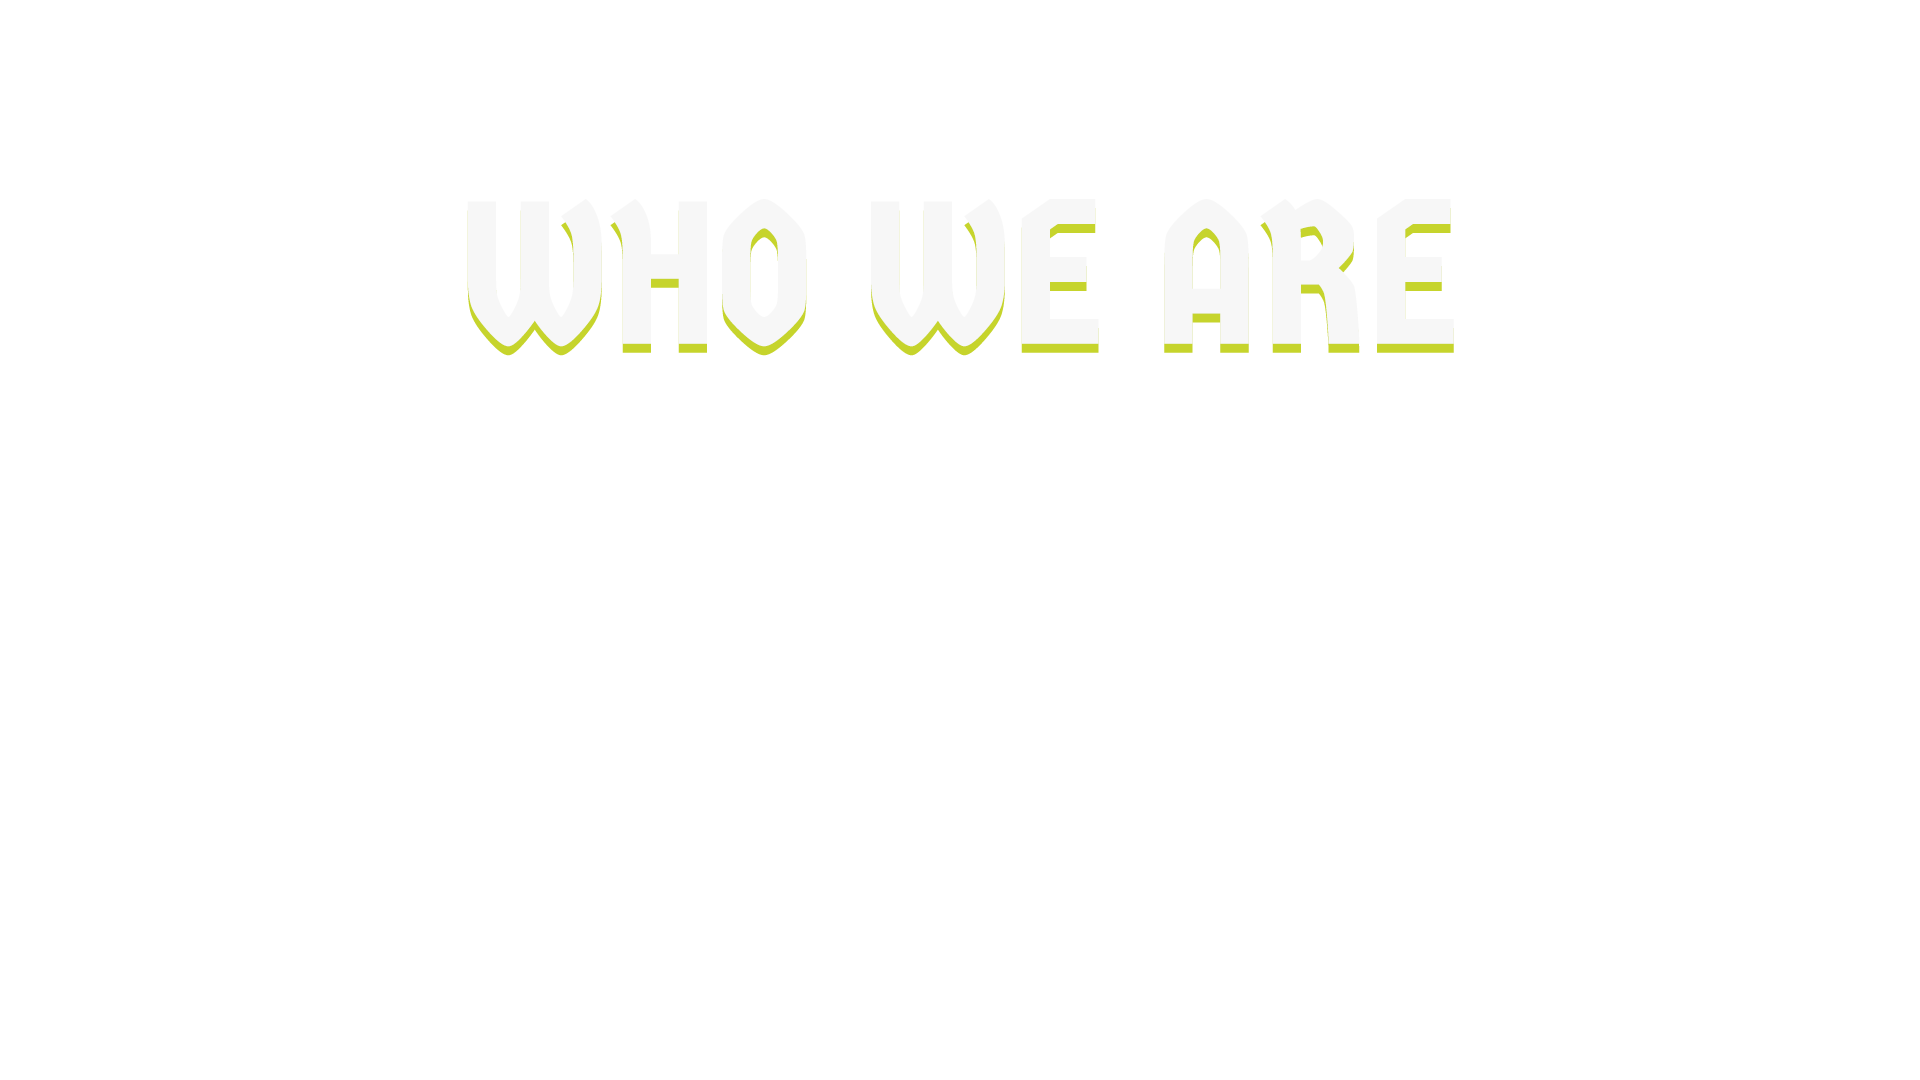
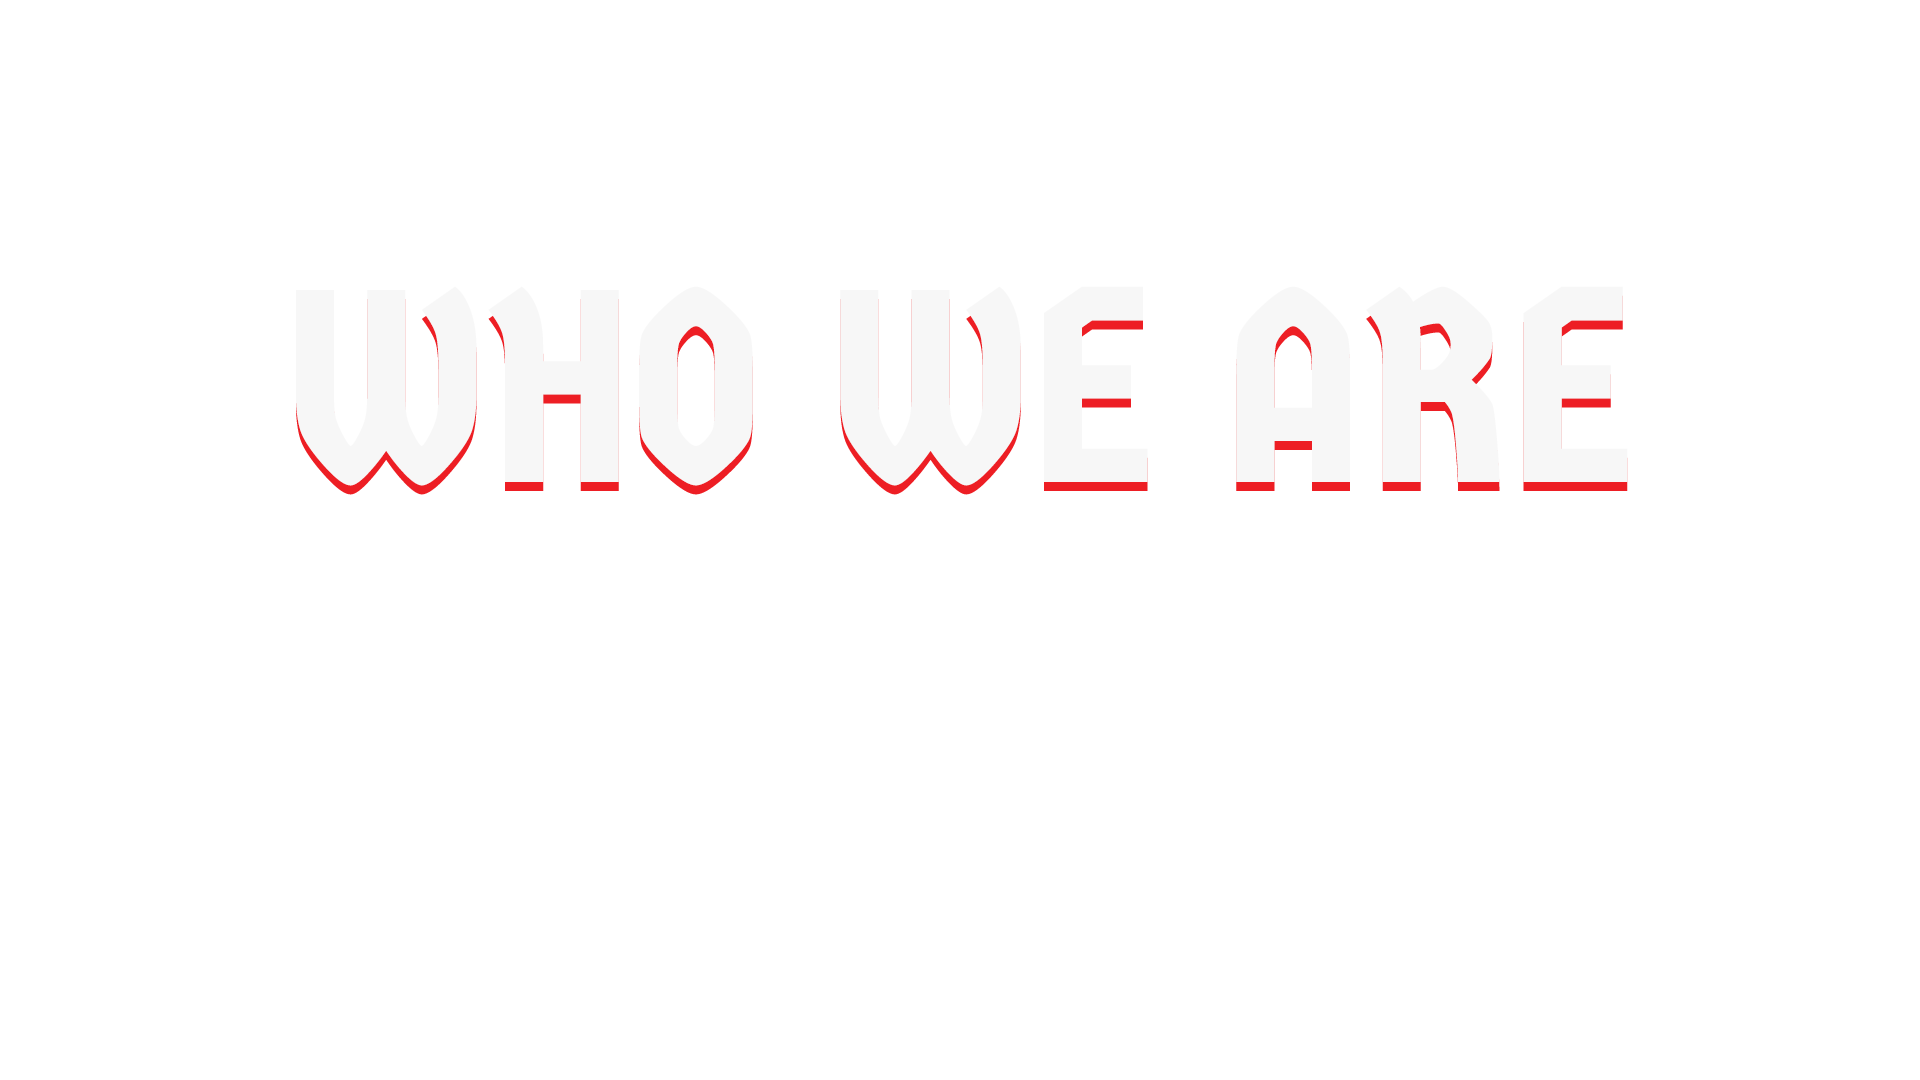
Regulps supers and copies

diff --git a/gulp/assets/1920X1080/.cache/css/main_cache.css b/gulp/assets/1920X1080/.cache/css/main_cache.css
@@ -1,25 +1,9 @@
 
 
-#header_the_collective_clicked {
-	left:1254px;
-	top:79px;
-	width:293px;
-	height:44px;
-	background-image:url(../img/header_the_collective_clicked.png);
-}
-
-#header_the_team_clicked {
-	left:1059px;
-	top:79px;
-	width:186px;
-	height:44px;
-	background-image:url(../img/header_the_team_clicked.png);
-}
-
-#header_the_work_clicked {
-	left:857px;
-	top:79px;
-	width:192px;
-	height:44px;
-	background-image:url(../img/header_the_work_clicked.png);
+#team_copy {
+	left:145px;
+	top:593px;
+	width:1634px;
+	height:199px;
+	background-image:url(../img/team_copy.png);
 }

diff --git a/gulp/src/1920x1080/css/main.css b/gulp/src/1920x1080/css/main.css
@@ -68,16 +68,16 @@ body { margin:0px 0px; padding:0px; }
 }
 
 #team_super {
-	left:467px;
-	top:199px;
-	width:988px;
-	height:158px;
+	left:296px;
+	top:286px;
+	width:1333px;
+	height:210px;
 	background-image:url(../img/team_super.png);
 }
 
 #team_copy {
 	left:145px;
-	top:491px;
+	top:593px;
 	width:1634px;
 	height:199px;
 	background-image:url(../img/team_copy.png);
@@ -130,7 +130,7 @@ body { margin:0px 0px; padding:0px; }
 	left:106px;
 	top:337px;
 	width:1710px;
-	height:125px;
+	height:131px;
 	background-image:url(../img/collective_super.png);
 }
 

diff --git a/src/App.css b/src/App.css
@@ -134,7 +134,7 @@
 }
 
 .header {
-  max-width: 50%;
+  max-width: 60%;
   margin: 20px;
 }
 
@@ -144,7 +144,7 @@
 }
 
 hr {
-  border: #c6d42c 2px solid !important;
+  border: #ed1e24 2px solid !important;
   opacity: 1 !important;
   margin-top: 25px !important;
   margin-bottom: 25px !important;
